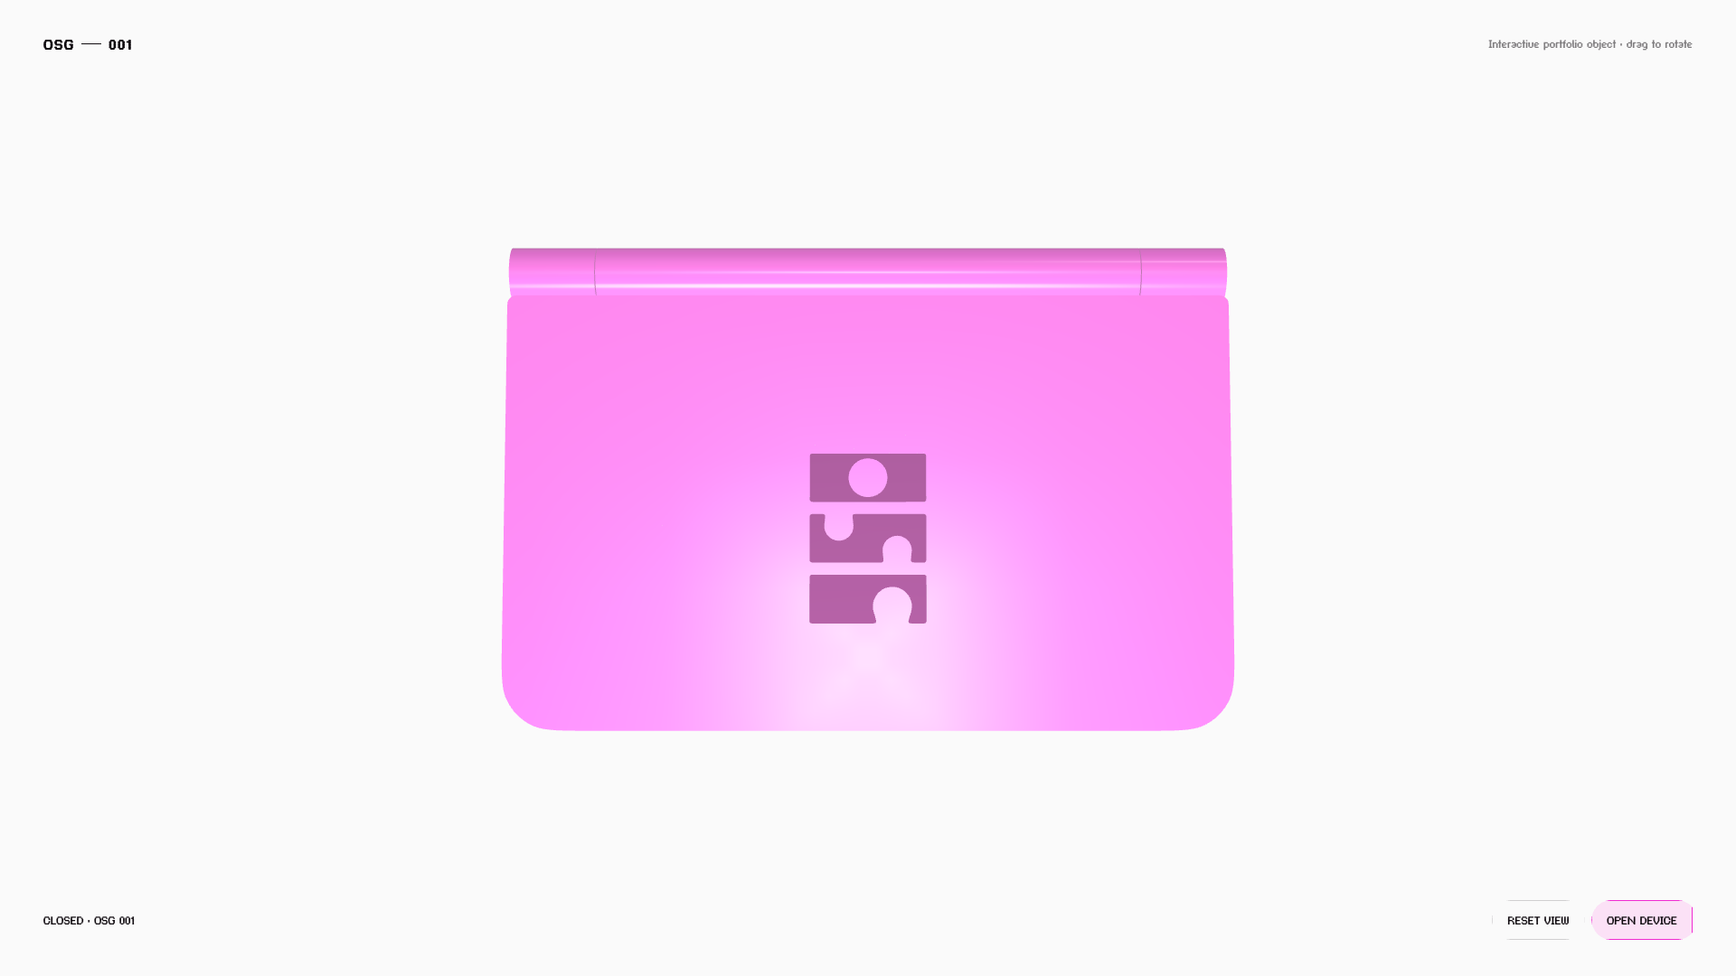
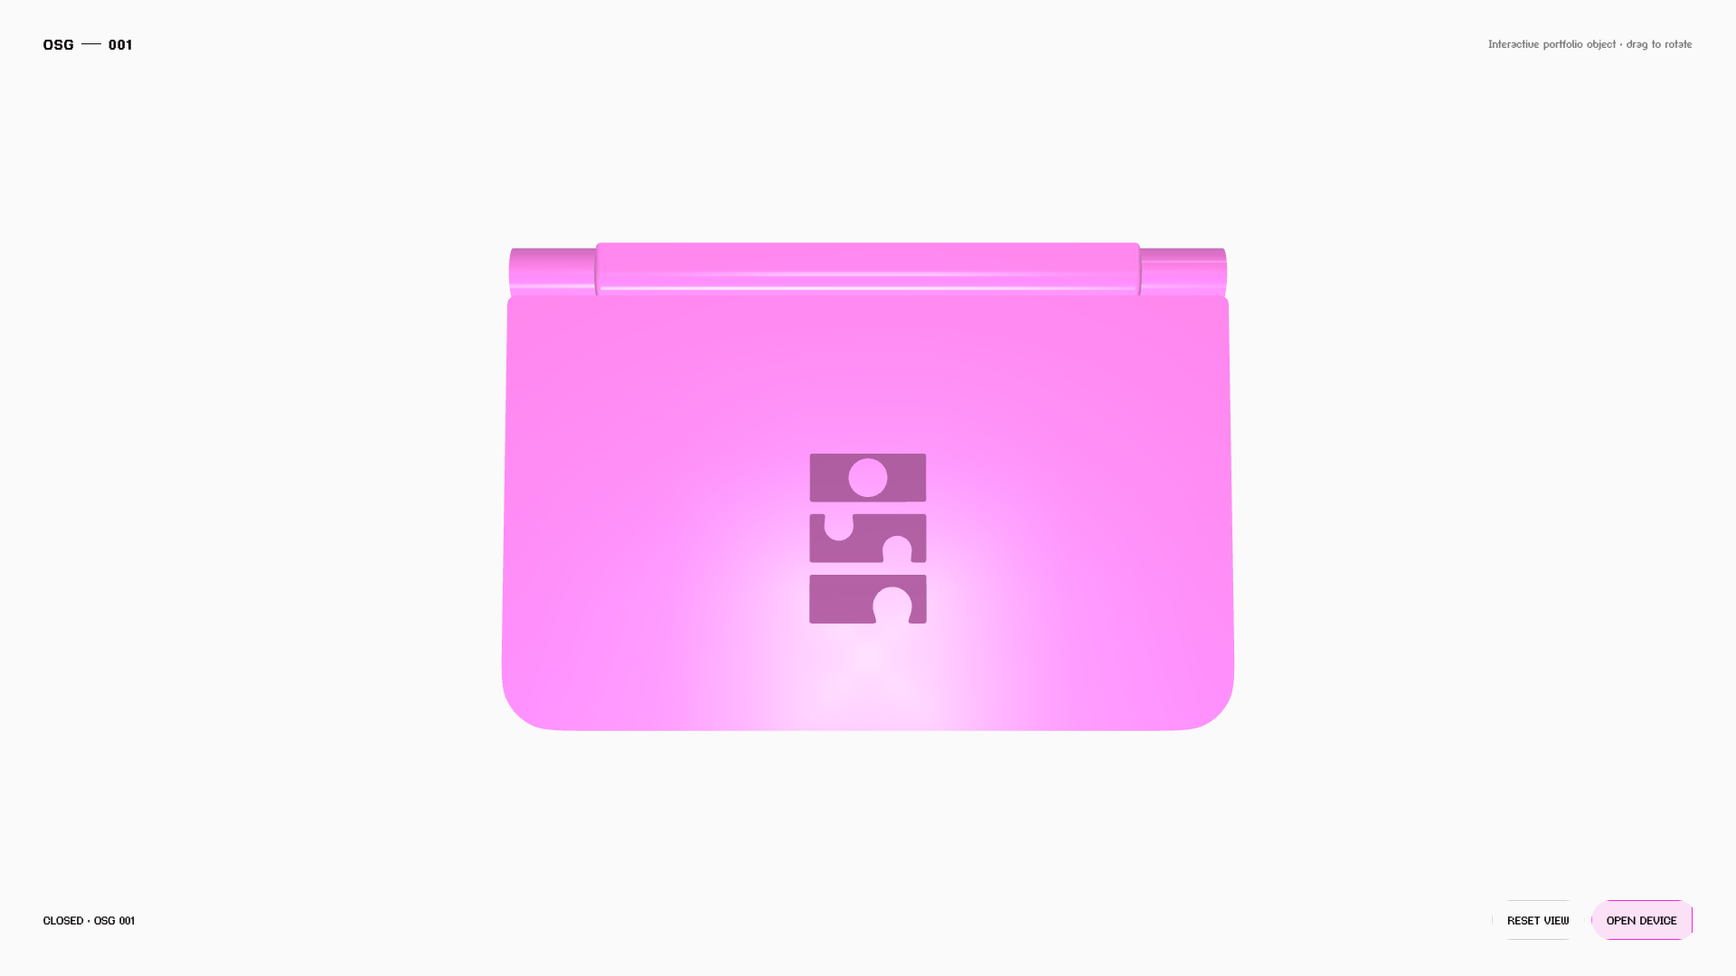
Merge panel-owned hinge profiles

Changed region(s): [[0.3438, 0.2444, 0.6562, 0.3056]]

diff --git a/src/device.ts b/src/device.ts
@@ -1,9 +1,11 @@
 import * as THREE from "three";
-import { Brush, Evaluator, SUBTRACTION } from "three-bvh-csg";
+import { ADDITION, Brush, Evaluator, INTERSECTION, SUBTRACTION } from "three-bvh-csg";
 import { DEVICE, FILLET_REFERENCE, PHYSICAL, UPPER_POCKET_FILLET_REFERENCE, exteriorRadius, px } from "./config";
 import { catalogueStepForDpad, dpadTiltForDirection, type DpadDirection } from "./controls";
 import {
   circleHole,
+  asymmetricRoundedRectShape,
+  centerHingeShape,
   crossShape,
   cylinderMesh,
   extrudedMesh,
@@ -68,6 +70,30 @@ type UpperAssembly = {
   readonly outerLogoAnchor: THREE.Group;
   readonly badgeLogoAnchor: THREE.Group;
 };
+
+function brushFromMesh(mesh: THREE.Mesh, material: THREE.Material = materials.shell): Brush {
+  mesh.updateMatrix();
+  const brush = new Brush(mesh.geometry.clone(), material);
+  brush.geometry.applyMatrix4(mesh.matrix);
+  mesh.geometry.dispose();
+  return brush;
+}
+
+function upperSideProfileMatrix(): THREE.Matrix4 {
+  return new THREE.Matrix4().makeBasis(
+    new THREE.Vector3(0, 0, 1),
+    new THREE.Vector3(0, -1, 0),
+    new THREE.Vector3(1, 0, 0),
+  );
+}
+
+function lowerSideProfileMatrix(): THREE.Matrix4 {
+  return new THREE.Matrix4().makeBasis(
+    new THREE.Vector3(0, 1, 0),
+    new THREE.Vector3(0, 0, -1),
+    new THREE.Vector3(-1, 0, 0),
+  );
+}
 
 const hitMaterial = new THREE.MeshBasicMaterial({ transparent: true, opacity: 0, depthWrite: false });
 hitMaterial.colorWrite = false;
@@ -367,7 +393,46 @@ function createLower(state: BuildState): LowerAssembly {
   }), { thickness: DEVICE.lowerThickness, material: materials.shell, bevel: px(1.2) });
   shell.rotation.x = Math.PI / 2;
   shell.position.y = DEVICE.lowerSurfaceY - DEVICE.lowerThickness / 2;
-  lower.add(shell);
+  shell.position.z = DEVICE.lowerPanelCenterZ;
+
+  const lowerSide = extrudedMesh(asymmetricRoundedRectShape({
+    width: DEVICE.lowerThickness,
+    height: DEVICE.lowerDepth,
+    radii: { topLeft: px(0), topRight: px(16), bottomRight: px(16), bottomLeft: px(2) },
+  }), { thickness: DEVICE.width, material: materials.shell });
+  lowerSide.setRotationFromMatrix(lowerSideProfileMatrix());
+  lowerSide.position.set(0, DEVICE.lowerSurfaceY - DEVICE.lowerThickness / 2, DEVICE.lowerPanelCenterZ);
+
+  const evaluator = new Evaluator();
+  evaluator.useGroups = false;
+  const lowerBody = evaluator.evaluate(brushFromMesh(shell), brushFromMesh(lowerSide), INTERSECTION);
+  lowerBody.name = "lowerShell";
+  lowerBody.material = materials.shell;
+  lowerBody.geometry.computeVertexNormals();
+
+  let lowerUnion: Brush = lowerBody;
+  [PHYSICAL.hinge.left, PHYSICAL.hinge.right].forEach((spec) => {
+    const hinge = extrudedMesh(asymmetricRoundedRectShape({
+      width: DEVICE.hingeRadius * 2,
+      height: DEVICE.hingeRadius * 2,
+      radii: { topLeft: DEVICE.sideHingeTopRadius, topRight: px(0), bottomRight: px(0), bottomLeft: DEVICE.hingeRadius },
+    }), {
+      thickness: spec.width,
+      material: materials.shell,
+      fillet: { radius: px(6), depth: px(6), segments: 12 },
+    });
+    hinge.setRotationFromMatrix(lowerSideProfileMatrix());
+    hinge.position.set(spec.x, DEVICE.hingeAxisY, DEVICE.hingeZ);
+    const hingeBrush = brushFromMesh(hinge);
+    const nextUnion = evaluator.evaluate(lowerUnion, hingeBrush, ADDITION);
+    lowerUnion.geometry.dispose();
+    hingeBrush.geometry.dispose();
+    lowerUnion = nextUnion;
+  });
+  lowerUnion.name = "lowerShellWithSideHinges";
+  lowerUnion.material = materials.shell;
+  lowerUnion.geometry.computeVertexNormals();
+  lower.add(lowerUnion);
   addLowerDisplay(lower);
   addDpad(lower, state);
   addRightButtons(lower, state);
@@ -450,10 +515,30 @@ function createUpper(): UpperAssembly {
     thickness: DEVICE.upperThickness, material: materials.shell,
   });
   base.position.set(0, DEVICE.panelHeight / 2 + DEVICE.hingeRadius, DEVICE.upperBodyCenterZ);
-  base.updateMatrix();
-  const baseBrush = new Brush(base.geometry.clone(), materials.shell);
-  baseBrush.geometry.applyMatrix4(base.matrix);
-  base.geometry.dispose();
+  const upperSide = extrudedMesh(asymmetricRoundedRectShape({
+    width: DEVICE.upperThickness,
+    height: DEVICE.panelHeight,
+    radii: { topLeft: px(0), topRight: px(0), bottomRight: px(2), bottomLeft: px(8) },
+  }), { thickness: DEVICE.width, material: materials.shell });
+  upperSide.setRotationFromMatrix(upperSideProfileMatrix());
+  upperSide.position.set(0, DEVICE.panelHeight / 2 + DEVICE.hingeRadius, DEVICE.upperBodyCenterZ);
+
+  const centerCoverMesh = extrudedMesh(centerHingeShape({
+    width: DEVICE.centerHingeRadius * 2,
+    height: DEVICE.centerHingeRadius * 2,
+    radius: DEVICE.centerHingeRadius,
+  }), {
+    thickness: PHYSICAL.hinge.center.coverWidth,
+    material: materials.shell,
+    fillet: { radius: px(6), depth: px(6), segments: 12 },
+  });
+  centerCoverMesh.rotation.y = -Math.PI / 2;
+
+  const evaluator = new Evaluator();
+  evaluator.useGroups = false;
+  const upperBody = evaluator.evaluate(brushFromMesh(base), brushFromMesh(upperSide), INTERSECTION);
+  const upperUnion = evaluator.evaluate(upperBody, brushFromMesh(centerCoverMesh), ADDITION);
+  upperBody.geometry.dispose();
 
   const pocketDepth = DEVICE.upperInsetDepth + UPPER_POCKET_FILLET_REFERENCE.depth + px(0.2);
   const pocket = extrudedMesh(panelShape(innerProfile), {
@@ -467,15 +552,14 @@ function createUpper(): UpperAssembly {
   pocketBrush.geometry.applyMatrix4(pocket.matrix);
   pocket.geometry.dispose();
 
-  const evaluator = new Evaluator();
-  evaluator.useGroups = false;
-  const upperShell = evaluator.evaluate(baseBrush, pocketBrush, SUBTRACTION);
+  const upperShell = evaluator.evaluate(upperUnion, pocketBrush, SUBTRACTION);
+  upperUnion.geometry.dispose();
+  pocketBrush.geometry.dispose();
   upperShell.name = "upperBackSkin";
   upperShell.material = materials.shell;
   upperShell.geometry.computeVertexNormals();
   pivot.add(upperShell);
-  baseBrush.geometry.dispose();
-  pocketBrush.geometry.dispose();
+  addCenterHingeCore(pivot);
   addUpperDisplay(pivot);
   PHYSICAL.speakerX.forEach((x) => PHYSICAL.speakerY.forEach((y) => {
     const aperture = cylinderMesh({ radius: PHYSICAL.speakerRadius, depth: px(1.6), material: materials.portVoid, segments: 24 });
@@ -485,24 +569,20 @@ function createUpper(): UpperAssembly {
   }));
   const anchors = addCameraAndBadge(pivot);
 
-  const centerCover = cylinderMesh({
-    radius: DEVICE.hingeRadius,
-    depth: PHYSICAL.hinge.center.coverWidth,
-    material: materials.shell,
-    segments: 64,
-  });
-  centerCover.rotation.z = Math.PI / 2;
-  pivot.add(centerCover);
   return { pivot, outerLogoAnchor: anchors.outer, badgeLogoAnchor: anchors.badge };
 }
 
-function addFixedHinges(root: THREE.Group): void {
-  [PHYSICAL.hinge.left, PHYSICAL.hinge.right].forEach((spec) => {
-    const barrel = cylinderMesh({ radius: DEVICE.hingeRadius, depth: spec.width, material: materials.shell, segments: 64 });
-    barrel.rotation.z = Math.PI / 2;
-    barrel.position.set(spec.x, DEVICE.hingeAxisY, DEVICE.hingeZ);
-    root.add(barrel);
+function addCenterHingeCore(pivot: THREE.Group): void {
+  const core = cylinderMesh({
+    radius: PHYSICAL.hinge.center.coreRadius,
+    depth: PHYSICAL.hinge.center.coreWidth,
+    material: materials.hingeCore,
+    segments: 64,
   });
+  core.name = "centerHingeCore";
+  core.rotation.z = Math.PI / 2;
+  core.position.set(0, 0, 0);
+  pivot.add(core);
 }
 
 export function createDeviceModel(): DeviceModel {
@@ -512,7 +592,6 @@ export function createDeviceModel(): DeviceModel {
   root.add(lower.group);
   const upper = createUpper();
   root.add(upper.pivot);
-  addFixedHinges(root);
 
   let closed = false;
   let toggleOn = true;

diff --git a/src/geometry.ts b/src/geometry.ts
@@ -71,6 +71,8 @@ type CornerRadii = {
   readonly bottomLeft: number;
 };
 
+export type AsymmetricCornerRadii = CornerRadii;
+
 type ResolvedCorners = {
   readonly topLeft: CornerPathParams;
   readonly topRight: CornerPathParams;
@@ -265,6 +267,35 @@ export function roundedRectHole(spec: RoundedRectSpec, continuous = true): THREE
   return path;
 }
 
+export function asymmetricRoundedRectShape(spec: {
+  readonly width: number;
+  readonly height: number;
+  readonly radii: AsymmetricCornerRadii;
+  readonly x?: number;
+  readonly y?: number;
+}): THREE.Shape {
+  const shape = new THREE.Shape();
+  const halfWidth = spec.width / 2;
+  const halfHeight = spec.height / 2;
+  const x = spec.x ?? 0;
+  const y = spec.y ?? 0;
+  const topLeft = Math.min(spec.radii.topLeft, halfWidth, halfHeight);
+  const topRight = Math.min(spec.radii.topRight, halfWidth, halfHeight);
+  const bottomRight = Math.min(spec.radii.bottomRight, halfWidth, halfHeight);
+  const bottomLeft = Math.min(spec.radii.bottomLeft, halfWidth, halfHeight);
+  shape.moveTo(x - halfWidth + topLeft, y + halfHeight);
+  shape.lineTo(x + halfWidth - topRight, y + halfHeight);
+  if (topRight > 0) shape.quadraticCurveTo(x + halfWidth, y + halfHeight, x + halfWidth, y + halfHeight - topRight);
+  shape.lineTo(x + halfWidth, y - halfHeight + bottomRight);
+  if (bottomRight > 0) shape.quadraticCurveTo(x + halfWidth, y - halfHeight, x + halfWidth - bottomRight, y - halfHeight);
+  shape.lineTo(x - halfWidth + bottomLeft, y - halfHeight);
+  if (bottomLeft > 0) shape.quadraticCurveTo(x - halfWidth, y - halfHeight, x - halfWidth, y - halfHeight + bottomLeft);
+  shape.lineTo(x - halfWidth, y + halfHeight - topLeft);
+  if (topLeft > 0) shape.quadraticCurveTo(x - halfWidth, y + halfHeight, x - halfWidth + topLeft, y + halfHeight);
+  shape.closePath();
+  return shape;
+}
+
 export function circleHole(spec: { readonly x: number; readonly y: number; readonly radius: number }): THREE.Path {
   const path = new THREE.Path();
   path.absarc(spec.x, spec.y, spec.radius, 0, Math.PI * 2, true);
@@ -315,6 +346,27 @@ export function panelHole(spec: {
       bottomLeft: spec.minYRadius,
     },
   });
+}
+
+export function centerHingeShape(spec: {
+  readonly width: number;
+  readonly height: number;
+  readonly radius: number;
+}): THREE.Shape {
+  const shape = new THREE.Shape();
+  const halfWidth = spec.width / 2;
+  const halfHeight = spec.height / 2;
+  const radius = Math.min(spec.radius, halfWidth, halfHeight);
+  shape.moveTo(-halfWidth, -halfHeight);
+  shape.lineTo(halfWidth - radius, -halfHeight);
+  shape.quadraticCurveTo(halfWidth, -halfHeight, halfWidth, -halfHeight + radius);
+  shape.lineTo(halfWidth, halfHeight - radius);
+  shape.quadraticCurveTo(halfWidth, halfHeight, halfWidth - radius, halfHeight);
+  shape.lineTo(-halfWidth + radius, halfHeight);
+  shape.quadraticCurveTo(-halfWidth, halfHeight, -halfWidth, halfHeight - radius);
+  shape.lineTo(-halfWidth, -halfHeight);
+  shape.closePath();
+  return shape;
 }
 
 export function crossShape(spec: {

diff --git a/tests/geometry.test.ts b/tests/geometry.test.ts
@@ -1,7 +1,7 @@
 import { describe, expect, test } from "bun:test";
 import { getPathParamsForCorner } from "@lisse/core";
 import * as THREE from "three";
-import { extrudedMesh, panelShape, roundedRectShape } from "../src/geometry";
+import { asymmetricRoundedRectShape, centerHingeShape, extrudedMesh, panelShape, roundedRectShape } from "../src/geometry";
 import { px } from "../src/config";
 
 describe("continuous enclosure geometry", () => {
@@ -83,5 +83,24 @@ describe("continuous enclosure geometry", () => {
     });
     const options = mesh.geometry.parameters.options as { readonly bevelOffset: number };
     expect(options.bevelOffset).toBe(0);
+  });
+
+  test("builds the center hinge with a square lower-left union corner", () => {
+    const shape = centerHingeShape({ width: px(61), height: px(61), radius: px(30.5) });
+    const points = shape.extractPoints(4).shape;
+    expect(points[0]?.x).toBe(-px(30.5));
+    expect(points[0]?.y).toBe(-px(30.5));
+    expect(points.some((point) => point.x === -px(30.5) && point.y > -px(30.5))).toBe(true);
+  });
+
+  test("preserves the supplied asymmetric side radii", () => {
+    const shape = asymmetricRoundedRectShape({
+      width: px(64),
+      height: px(541),
+      radii: { topLeft: px(0), topRight: px(16), bottomRight: px(16), bottomLeft: px(2) },
+    });
+    const points = shape.extractPoints(4).shape;
+    expect(points.some((point) => point.x === -px(32) && point.y === px(541 / 2))).toBe(true);
+    expect(shape.curves.some((curve) => curve instanceof THREE.QuadraticBezierCurve)).toBe(true);
   });
 });

diff --git a/src/config.ts b/src/config.ts
@@ -27,16 +27,21 @@ const upperCenterY = (top: number, height: number): number => px(480 - top - hei
 const lowerCenterZ = (top: number, height: number): number => px(top + height / 2 - 240);
 
 const upperContactFaceZ = 0;
-const upperThickness = px(36);
+const upperThickness = px(28);
 const upperBackFaceZ = upperContactFaceZ - upperThickness;
 const upperOuterRadius = exteriorRadius(120);
 const upperHingeRadius = exteriorRadius(20);
+const centerHingeRadius = px(30.5);
+const sideHingeTopRadius = px(8);
+const lowerDepth = px(541);
+const lowerPanelCenterZ = -px(1.5);
 
 export const DEVICE = {
   width: px(800),
   panelHeight: px(480),
-  lowerDepth: px(480),
-  lowerThickness: px(63),
+  lowerDepth,
+  lowerPanelCenterZ,
+  lowerThickness: px(64),
   upperThickness,
   upperContactFaceZ,
   upperBackFaceZ,
@@ -49,6 +54,8 @@ export const DEVICE = {
   cornerSmoothing: 0.6,
   upperOuterRadius,
   upperHingeRadius,
+  centerHingeRadius,
+  sideHingeTopRadius,
   upperInsetOuterRadius: upperOuterRadius - px(6),
   upperInsetHingeRadius: upperHingeRadius - px(6),
   lowerOuterRadius: exteriorRadius(120),

diff --git a/tests/config.test.ts b/tests/config.test.ts
@@ -13,13 +13,17 @@ describe("Figma geometry contract", () => {
   });
 
   test("uses a flush closed contact plane and inset-matched exterior cover edges", () => {
-    expect(DEVICE.upperThickness).toBe(px(36));
-    expect(DEVICE.lowerThickness).toBe(3.15);
+    expect(DEVICE.upperThickness).toBe(px(28));
+    expect(DEVICE.lowerThickness).toBe(px(64));
+    expect(DEVICE.lowerDepth).toBe(px(541));
+    expect(DEVICE.lowerPanelCenterZ).toBe(-px(1.5));
     expect(DEVICE.upperContactFaceZ).toBe(0);
-    expect(DEVICE.upperBackFaceZ).toBe(-px(36));
+    expect(DEVICE.upperBackFaceZ).toBe(-px(28));
     expect(DEVICE.upperInnerSurfaceZ).toBe(-px(6));
     expect(DEVICE.upperOuterRadius).toBe(px(60));
     expect(DEVICE.upperHingeRadius).toBe(px(10));
+    expect(DEVICE.centerHingeRadius).toBe(px(30.5));
+    expect(DEVICE.sideHingeTopRadius).toBe(px(8));
     expect(DEVICE.upperInsetOuterRadius).toBeCloseTo(px(54), 10);
     expect(DEVICE.upperInsetHingeRadius).toBeCloseTo(px(4), 10);
     expect(DEVICE.lowerOuterRadius).toBe(px(60));

diff --git a/DESIGN.md b/DESIGN.md
@@ -31,11 +31,11 @@ Primary and sole display stack: bundled `OSG Capsules`. Light is mapped to weigh
 
 ## 4. Geometry and spacing
 
-Every physical X/Y dimension derives from one equation: `world units = Figma pixels / 20`. No component may use an independent visual scale. This session's latest all-layer CSS supersedes every earlier radius and position override. The source panels are 800 × 480px (40 × 24 world), both bezels are 496 × 376px, and both active displays are 480 × 360px with square corners. The lower thickness remains exactly `1.8 × 1.75 = 3.15` world. The upper thickness is 36px (1.8 world), with a flush contact plane at 0px, a 6px recessed inner surface, and a -36px outer back. Its 788 × 468px inner pocket is cut directly from the one-piece upper shell by CSG; the pocket floor, 6px filleted shoulder, and vertical wall are one closed solid rather than assembled skins. The pocket contains the camera, badge, and display stack without overlapping the wall. The upper screen and bezel retain their original square stack. Default hinge opening is 170 degrees and closed clearance is 0 degrees.
+Every physical X/Y dimension derives from one equation: `world units = Figma pixels / 20`. No component may use an independent visual scale. This session's latest all-layer CSS supersedes every earlier radius and position override. The source panels are 800 × 480px, both bezels are 496 × 376px, and both active displays are 480 × 360px with square corners. The lower side union uses the supplied 64px thickness and 541px vertical envelope; the upper panel uses the supplied 28px thickness and 480px body height. The upper contact plane remains at 0px, with a 6px recessed inner surface and a -28px outer back. Its 788 × 468px inner pocket is cut directly from the one-piece upper shell by CSG; the pocket floor, 6px filleted shoulder, and vertical wall are one closed solid rather than assembled skins. The pocket contains the camera, badge, and display stack without overlapping the wall. The upper screen and bezel retain their original square stack. Default hinge opening is 170 degrees and closed clearance is 0 degrees.
 
 Latest shell corner contract: UI radii remain untouched, while every physical 3D corner radius is modeled at exactly 50% of its latest CSS value. The upper 800 × 480px panel therefore uses 60/60/10/10px model radii from CSS 120/120/20/20px; the lower panel uses 60/60/0/0px before its source vertical flip; and the upper inset uses the adjacent 54/54/4/4px radii produced by the 6px inset. These remain Lisse continuous corners at smoothing `0.6`, not ordinary circular arcs. The D-pad is the explicit exception and retains its supplied 8/7px radii so its directional cap remains visually faithful.
 
-Exact source geometry: side hinge envelopes are 95 × 60px, the center cover is 608 × 60px, and the visible dark core/web are intentionally absent; the center cover is tangent to and physically continuous with the upper panel rather than a detached rod. Upper speakers are 8px apertures at X 56/88 and 704/736, Y 203.43/235.43/267.43/299.43. Both display bezels are 496 × 376px with the same 10px CSS corner radius. Right buttons are 112 × 42px outer cutouts using a 21px model radius from CSS 42px, with 110 × 40px caps using 20px from CSS 40px, at X 668 and latest CSS Y 179/225/271 within the lower body. The toggle is a 16 × 40px cutout using 16px from CSS 32px with a 14 × 22px handle using 7px from CSS 14px; Light/Dark is a 16px cutout using 6px from CSS 12px with a 14px handle using 7.5px from CSS 15px. The D-pad is a 112px source cutout with a 110px cap and source-directed five-dot arrows; its modeled corner radii retain the explicit 8/7px source exception.
+Exact source geometry: the upper center union is a 61 × 61px asymmetric profile with 30px corner radii on the three rounded corners, a 608px cover span, and a 40px dark core. The lower left/right unions use 61 × 61px asymmetric profiles with 8px upper-left and 30px lower-left radii, extruded across the 95px side hinge envelopes. These are CSG-merged into the upper pivot and lower assembly respectively, so each hinge moves with its panel rather than remaining as a root-level rod. The 2/8/16px side-profile radii are retained from the supplied CSS, with the corrected 8px left/right hinge corner. Upper speakers are 8px apertures at X 56/88 and 704/736, Y 203.43/235.43/267.43/299.43. Both display bezels are 496 × 376px with the same 10px CSS corner radius. Right buttons are 112 × 42px outer cutouts using a 21px model radius from CSS 42px, with 110 × 40px caps using 20px from CSS 40px, at X 668 and latest CSS Y 179/225/271 within the lower body. The toggle is a 16 × 40px cutout using 16px from CSS 32px with a 14 × 22px handle using 7px from CSS 14px; Light/Dark is a 16px cutout using 6px from CSS 12px with a 14px handle using 7.5px from CSS 15px. The D-pad is a 112px source cutout with a 110px cap and source-directed five-dot arrows; its modeled corner radii retain the explicit 8/7px source exception.
 
 CSS spacing follows the source pixels. The catalogue has an 8px screen inset, 36px default rows, a 64px focused row containing a 48px focus capsule, and 14px horizontal text inset. Rounded UI elements use Lisse-generated continuous paths at the source radius; explicit capsules and circles retain their exact capsule/circle geometry. The 480 × 360 active display surface itself is always rectangular and receives no corner clipping.
 
@@ -69,7 +69,7 @@ Micro presses translate only along the control's local surface normal and return
 
 ## 7. Depth and lighting
 
-Depth comes from articulated geometry, thicker lower housing, the one-piece upper shell's 6px recessed CSG pocket with a smooth filleted shoulder and closed vertical wall, the raised lower-display shoulder derived from the source 12px blur/8px spread highlight, deeper button travel inside actual dark-purple/light-control shell cutouts, recessed black speaker apertures, flush black side ports, microscopic ABS embossing, and physically based reflections. Because the upper pocket is carved from the shell instead of assembled from overlapping skins, its floor, fillet, wall, and enclosure remain closed while tilting. One broad viewing-direction key plus restrained fills reveal the glossy shell, chrome badge, and lens. The product casts no ground/contact shadow and the stage remains the supplied flat `#FAFAFA`.
+Depth comes from articulated geometry, the CSG-merged panel/hinge unions, the one-piece upper shell's 6px recessed CSG pocket with a smooth filleted shoulder and closed vertical wall, the raised lower-display shoulder derived from the source 12px blur/8px spread highlight, deeper button travel inside actual dark-purple/light-control shell cutouts, recessed black speaker apertures, flush black side ports, microscopic ABS embossing, and physically based reflections. Because the upper pocket and hinge unions are carved/merged solids instead of assembled overlapping skins, their floors, fillets, walls, and panel connections remain closed while tilting. One broad viewing-direction key plus restrained fills reveal the glossy shell, chrome badge, and lens. The product casts no ground/contact shadow and the stage remains the supplied flat `#FAFAFA`.
 
 ## 8. Accessibility constraints and accepted debt
 

diff --git a/docs/qa/README.md b/docs/qa/README.md
@@ -8,6 +8,6 @@ These true-PNG captures are the durable 1920 × 1080 verification set for the so
 - `osg-final-closed-1920.png`: settled closed state at the source 800 × 540 envelope.
 - `osg-final-hinge-mid-1920.png`: hinge in transit with CSS3D screen content hidden to prevent bleed/intersection.
 
-The lower display keeps its original black bezel. The upper shell is one CSG-carved solid: a 6px inset pocket leaves a flat shell-colored floor, a smooth 6px filleted shoulder, and a vertical wall in the same closed mesh. The upper screen/bezel, camera, and badge remain inside that pocket. Closed-state stability and incremental tilt must be checked across fresh captures; there are no separate upper face/rim/wall skins for an endpoint gap or depth flicker to form.
+The lower display keeps its original black bezel. The upper shell is one CSG-carved solid: a 6px inset pocket leaves a flat shell-colored floor, a smooth 6px filleted shoulder, and a vertical wall in the same closed mesh. The upper center hinge uses the supplied asymmetric 61px profile and is merged into that upper pivot; the lower left/right 61px hinge profiles are merged into the lower shell assembly. The 2/8/16px side-profile radii and 40px center core are retained, so no hinge piece remains fixed at the root while its panel moves. The upper screen/bezel, camera, and badge remain inside the pocket. Closed-state stability and incremental tilt must be checked across fresh captures; there are no separate upper face/rim/wall skins for an endpoint gap or depth flicker to form.
 
 The browser scenarios, exact type/geometry contracts, build results, limitations, and all user-mandated fidelity notes are recorded in `.debug-journal.md` and `.codex/session-logs/2026-07-17T23-06-22+09-00-osg-folding-portfolio.json`.
